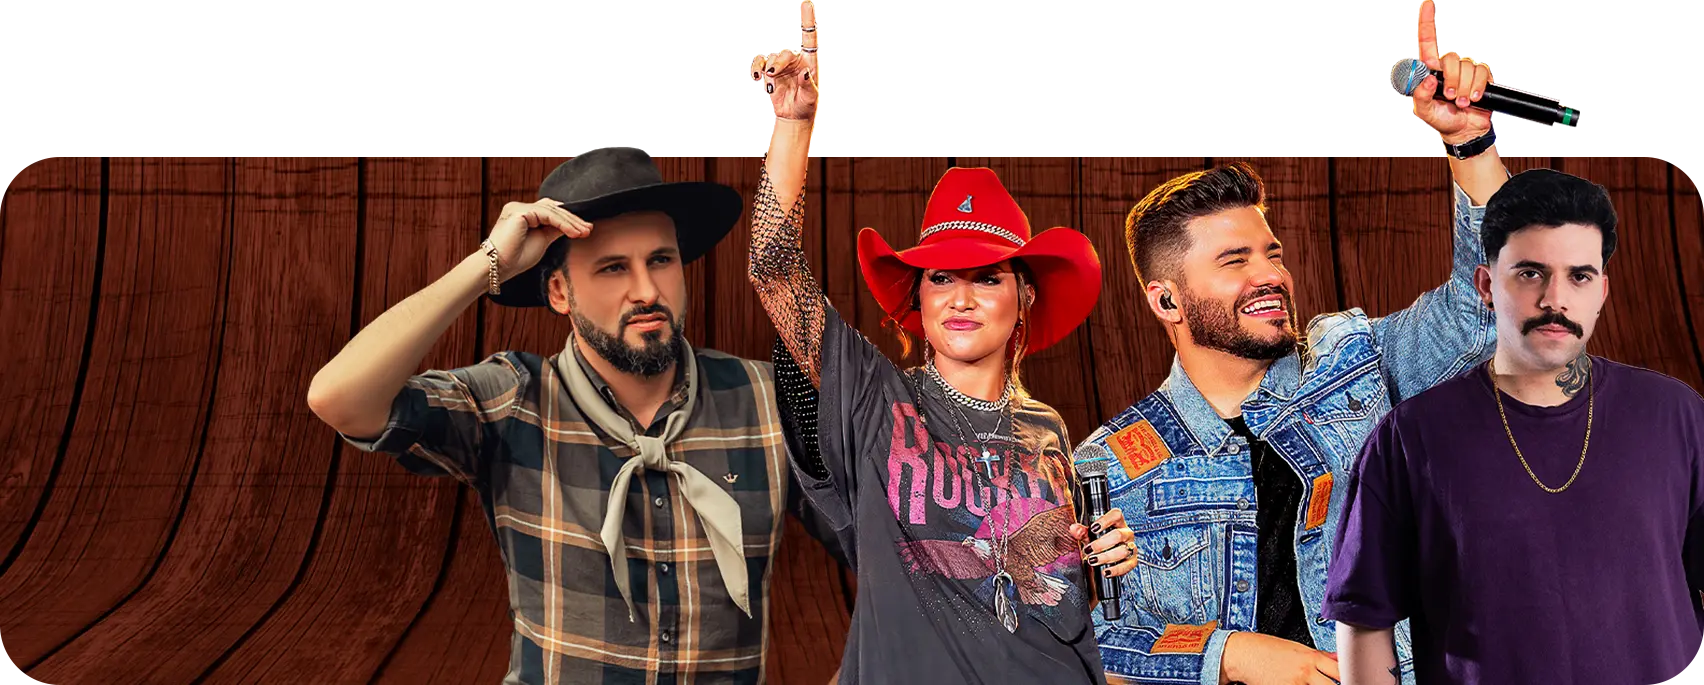
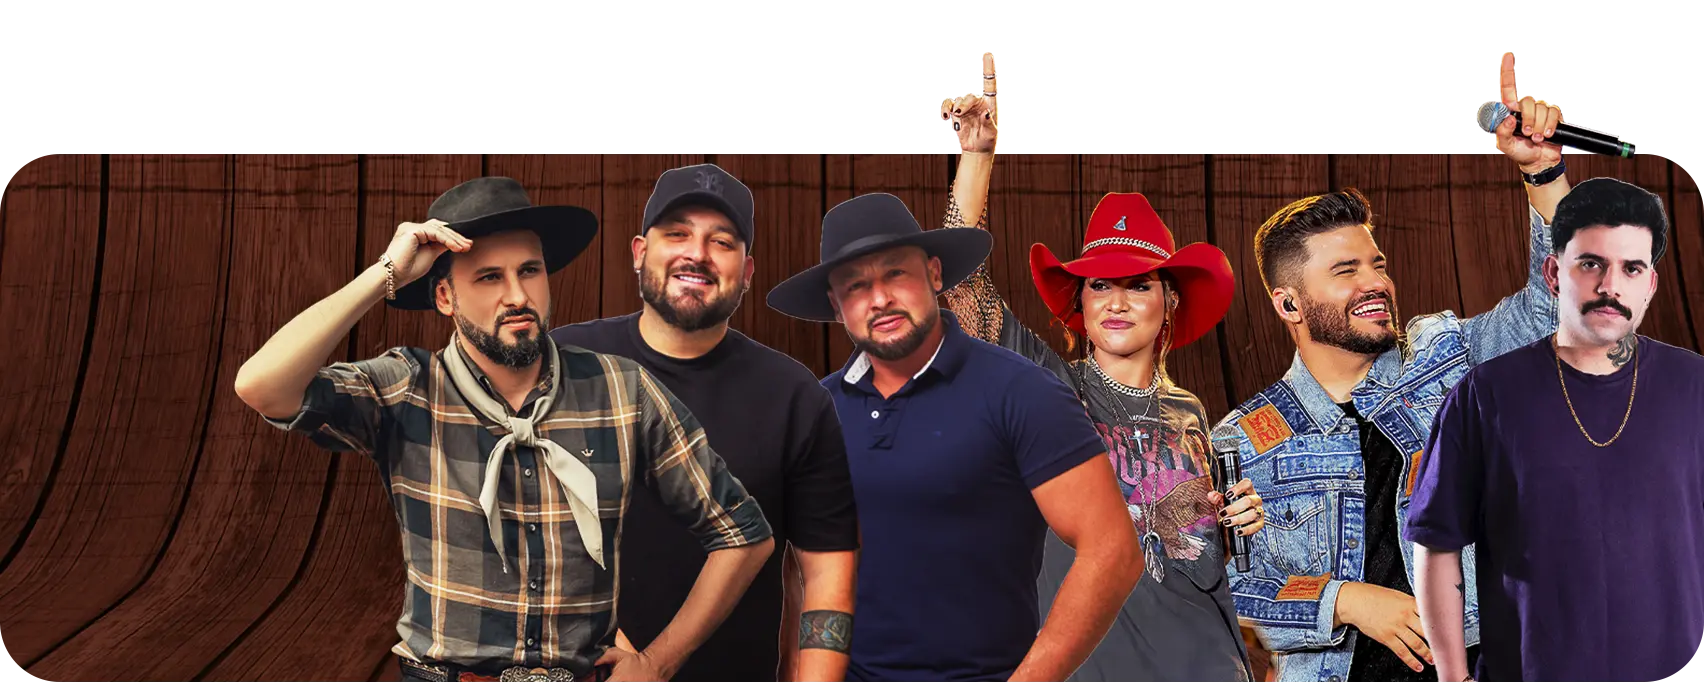
wip

diff --git a/src/components/participations.tsx b/src/components/participations.tsx
@@ -1,8 +1,9 @@
 import mai from "../assets/participants/participant_mai.webp";
 import participants from "../assets/participants/participants.webp";
-import artistas from '../assets/participations-cards/artistas.png'
-import doisPalcos from '../assets/participations-cards/dois_palcos.png'
-import estrutura from '../assets/participations-cards/estrutura.png'
+import artistas from "../assets/participations-cards/artistas.png";
+import doisPalcos from "../assets/participations-cards/dois_palcos.png";
+import estrutura from "../assets/participations-cards/estrutura.png";
+import praca from "../assets/participations-cards/praca.png";
 
 export const Participations = () => {
   return (
@@ -17,11 +18,13 @@ export const Participations = () => {
           <span className="absolute top-[50%] right-[15%]  text-white">
             <p className="text-4xl font-aeonik">Show completo de</p>{" "}
             <p className="text-7xl font-thunderhouse">MAIARA COELHO</p>
-             <p className="text-2xl font-aeonik text-pink-bg -mt-2">Gravação de DVD</p>
+            <p className="text-2xl font-aeonik text-pink-bg -mt-2">
+              Gravação de DVD
+            </p>
           </span>
         </div>
 
-        <div className="w-[90%] relative -mt-10">
+        <div className="w-[90%] relative -mt-14">
           <img
             src={participants}
             className="w-full max-w-none"
@@ -33,14 +36,20 @@ export const Participations = () => {
                 ATRAÇÕES NACIONAIS
               </strong>{" "}
               <br /> JÁ{" "}
-              <strong className="font-thunderhouse font-normal text-7xl">CONFIRMADA</strong>
+              <strong className="font-thunderhouse font-normal text-7xl">
+                CONFIRMADA
+              </strong>
             </p>
           </span>
         </div>
 
         <div className="w-[90%] flex gap-4 items-center justify-between mt-10">
-          <div className="bg-[#6c2b19] h-110 p-5 flex rounded-[40px] rounded-tr-[100px] max-w-80 w-full relative overflow-hidden">
-            <img src={artistas} alt="artistas" className="absolute -top-6 w-full left-0" />
+          <div className="bg-[#6c2b19] h-106 p-5 flex rounded-[40px] rounded-tr-[100px] max-w-80 w-full relative overflow-hidden">
+            <img
+              src={artistas}
+              alt="artistas"
+              className="absolute -top-2 w-full left-0"
+            />
             <span className="text-xl text-white mt-auto">
               ARTISTAS <br />
               CONVIDADOS DE <br />
@@ -49,8 +58,12 @@ export const Participations = () => {
               </strong>
             </span>
           </div>
-          <div className="bg-[#6c2b19] h-110 p-5 flex rounded-[40px] rounded-tl-[45px] rounded-tr-[100px] max-w-80 w-full relative overflow-hidden">
-            <img src={doisPalcos} alt="dois palcos" className="absolute -top-1 w-full left-0" />
+          <div className="bg-[#6c2b19] h-106 p-5 flex rounded-[40px] rounded-tl-[45px] rounded-tr-[100px] max-w-80 w-full relative overflow-hidden">
+            <img
+              src={doisPalcos}
+              alt="dois palcos"
+              className="absolute -top-15 w-full left-0"
+            />
             <span className="text-xl text-white mt-auto">
               <strong className="text-4xl font-thunderhouse tracking-[2px] font-normal">
                 DOIS PALCOS
@@ -61,8 +74,12 @@ export const Participations = () => {
               TODO O EVENTO;
             </span>
           </div>
-          <div className="bg-[#6c2b19] h-110 p-5 flex rounded-[40px] rounded-tl-[42px] rounded-tr-[100px] max-w-80 w-full relative overflow-hidden">
-            <img src={estrutura} alt="estrutura" className="absolute -top-1 w-full left-0" />
+          <div className="bg-[#6c2b19] h-106 p-5 flex rounded-[40px] rounded-tl-[42px] rounded-tr-[100px] max-w-80 w-full relative overflow-hidden">
+            <img
+              src={estrutura}
+              alt="estrutura"
+              className="absolute -top-1 w-full left-0"
+            />
             <span className="text-xl text-white mt-auto">
               <strong className="text-4xl font-thunderhouse tracking-[2px] font-normal">
                 ESTRUTURA <br />
@@ -76,8 +93,12 @@ export const Participations = () => {
               </strong>
             </span>
           </div>
-          <div className="bg-[#6c2b19] h-110 p-5 flex rounded-[40px] rounded-tl-[42px] rounded-tr-[100px] max-w-80 w-full relative overflow-hidden">
-                   <img src={estrutura} alt="estrutura" className="absolute -top-1 w-full left-0" />
+          <div className="bg-[#6c2b19] h-106 p-5 flex rounded-[40px] rounded-tl-[42px] rounded-tr-[100px] max-w-80 w-full relative overflow-hidden">
+            <img
+              src={praca}
+              alt="estrutura"
+              className="absolute -top-1 w-full left-0"
+            />
             <span className="text-xl text-white mt-auto">
               PRAÇA DE <br />
               ALIMENTAÇÃO,